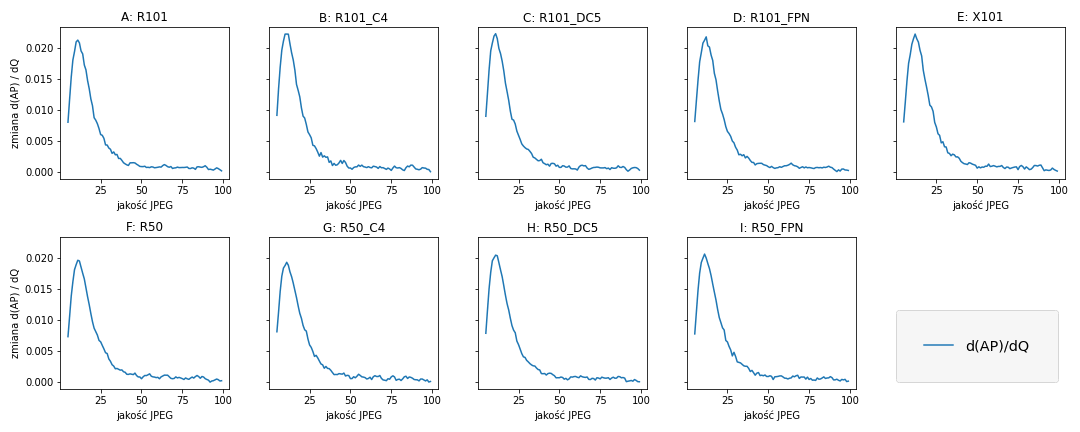
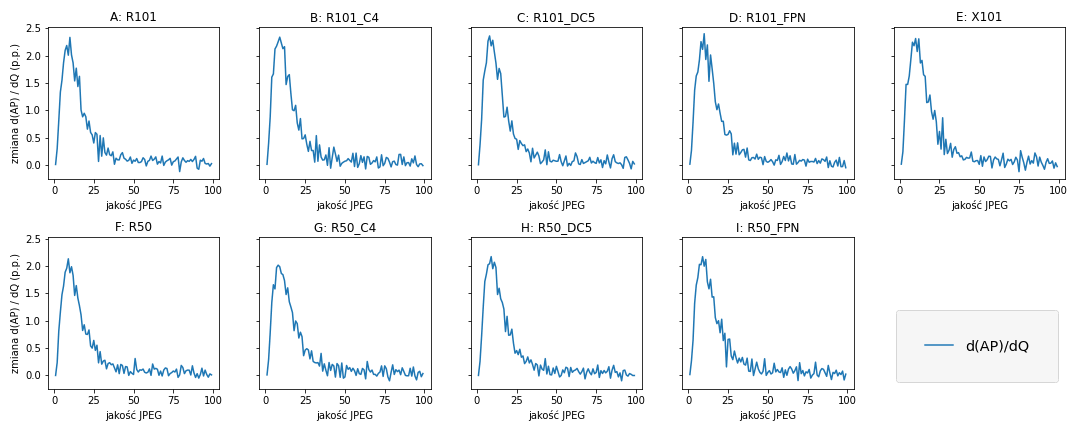
evaldets/postprocess.py plot_ap_derivatives() enable non-smooth.

diff --git a/evaldets/postprocess.py b/evaldets/postprocess.py
@@ -433,7 +433,7 @@ class GrandSummary:
                     line.set_linewidth(w)
                     w -= 1
 
-    def plot_ap_derivatives(self, axes=None, order=None, i18n=None, **kwargs):
+    def plot_ap_derivatives(self, axes=None, order=None, i18n=None, smooth=5, **kwargs):
         if axes is not None:
             axes = iter(axes.ravel())
         subplot_ord = ord("A")
@@ -443,9 +443,12 @@ class GrandSummary:
             if axes is not None:
                 ax = next(axes)
                 kwargs["ax"] = ax
-            df.AP.rename("d(AP)/dQ").diff().rolling(5).mean().plot(
+            der = df.AP.rename("d(AP)/dQ").diff() * 100
+            if smooth:
+                der = der.rolling(smooth).mean()
+            der.plot(
                 xlabel=T_(i18n, "quality"),
-                ylabel=T_(i18n, "d(AP)/dQ"),
+                ylabel=T_(i18n, "d(AP)/dQ (p.p.)"),
                 legend=False,
                 title=f"{chr(subplot_ord)}: {model}",
                 **kwargs,
